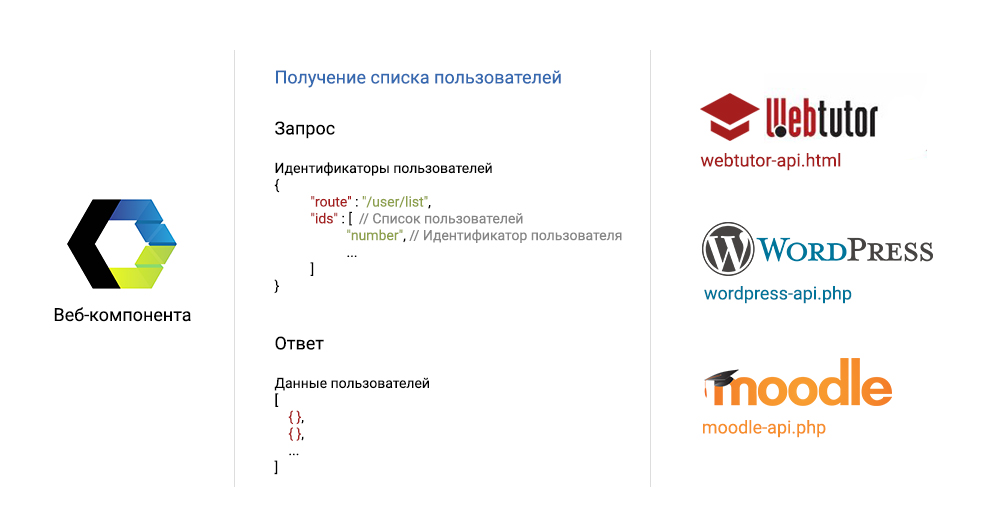
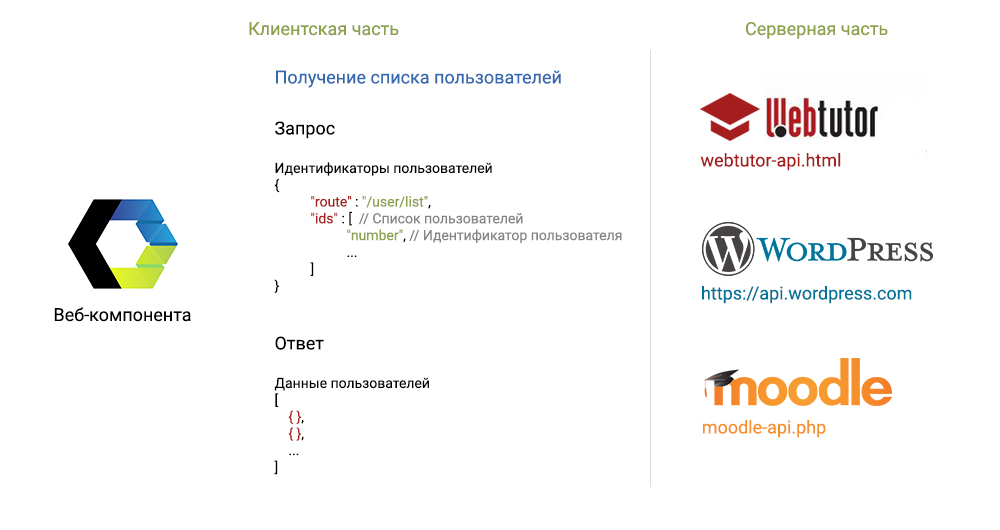
Updates Development/MakeWebComponentForWebTutor/1.jpg
Auto commit by GitBook Editor

Changed region(s): [[0.744, 0.0302, 0.899, 0.0906], [0.682, 0.5434, 0.93, 0.5736], [0.248, 0.0302, 0.403, 0.0906]]

diff --git a/Development/MakeWebComponentForWebTutor/README.md b/Development/MakeWebComponentForWebTutor/README.md
@@ -4,13 +4,13 @@
 
 При разработке веб-компоненты, которая должна осуществлять запросы, необходимо полностью разделять клиентскую и серверную часть. Серверную часть, можно даже вынести в отдельный модуль. Подобное отделение позволяет сделать веб-компоненту более гибкой и эта гибкость позволяет заменять серверную часть при необходимости, ничего не меняя в клиентской части.
 
-То есть, вы делаете веб-компоненту, которая взаимодействует с WebTutor, но затем кто угодно может добавить поддержку для своей системы\(к примеру Moodle, WordPress итп\), добавив свой серверный модуль. Подобный подход позволяет вам делать максимально полезные веб-компоненты, которые будут охватывать множество различных систем и соответственно приносить пользу огромной массе людей.
+То есть, вы делаете веб-компоненту, которая взаимодействует с WebTutor, но затем кто угодно может добавить поддержку для своей системы\(к примеру Moodle, WordPress итп\), добавив свой серверный модуль. Подобный подход позволяет вам делать максимально полезные веб-компоненты, которые будут охватывать множество различных систем и соответственно приносить пользу огромной массе людей. ![](/Development/MakeWebComponentForWebTutor/1.jpg)На картинке показаны основные составляющие подобной "гибкой" веб-компоненты: клиентская и серверная часть. Клиентская часть независимая. Серверная часть зависит от клиентской и должна подстраиваться под приходящие запросы и должна отдавать ответ в соответствующем формате. В запросах и ответах используется JSON формат. Серверная часть представляет из себя, некое подобие API. Серверная часть, к которой осуществляется запрос, может представлять из себя обычный файлик лежащий на сервере\(например webtutor-api.html\) или отдельный выделенный под API сервер\(например https://api.wordpress.com\)
 
+Как поэтапно происходит взаимодействие
 
+1\) Веб-компонента делает GET или POST запрос к вашей серверной части.
 
-
-
-В создаваемой веб-компоненте, необходимо отделить друг от друга клиентскую и серверную часть. Серверную часть, можно даже вынести в отдельный модуль. Делаю я так потому что возможно данная веб-компонента понадобится кому-то еще в других системах\(к примеру в WordPress, Moodle итп\), и чтобы другой разработчик смог использовать мою веб-компоненту, ему понадобится, только заменить серверную часть.\(обычно это один файлик или  модуль\)![](/Development/MakeWebComponentForWebTutor/1.jpg)
+2\)
 
 Веб-компоненте без разницы
 
